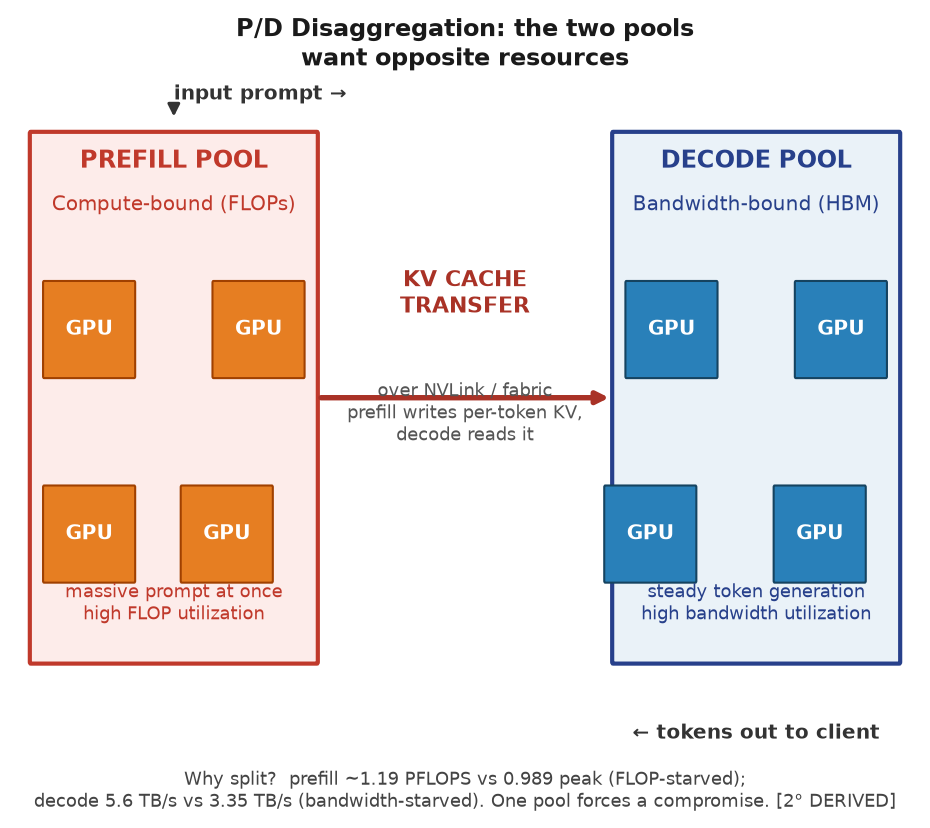
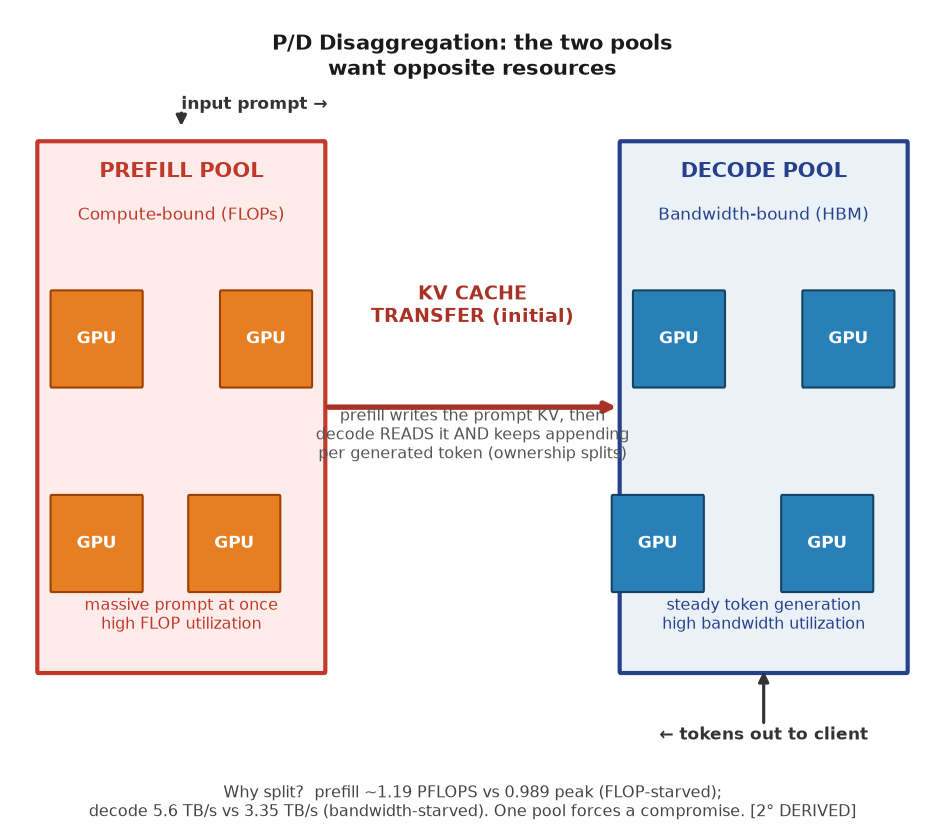
Fix Fig 11.3 P/D: show decode both reads AND appends per-token KV; anchor ingress/egress endpoints

Changed region(s): [[0.0312, 0.0, 0.9978, 0.8152], [0.0312, 0.9058, 0.9667, 0.9964], [0.686, 0.785, 0.9667, 0.9058]]

diff --git a/render/fig_ch11_pd.py b/render/fig_ch11_pd.py
@@ -34,13 +34,15 @@ ax.text(14.0, 1.9, 'steady token generation\nhigh bandwidth utilization', fontsi
 
 # ---- Bridge: KV cache transfer ----
 ax.annotate('', xy=(11.3, 4.5), xytext=(5.7, 4.5), arrowprops=dict(arrowstyle='-|>', lw=2.6, color='#a93226', connectionstyle='arc3,rad=0.0'))
-ax.text(8.5, 5.5, 'KV CACHE\nTRANSFER', fontsize=9, ha='center', color='#a93226', fontweight='bold')
-ax.text(8.5, 4.0, 'over NVLink / fabric\nprefill writes per-token KV,\ndecode reads it', fontsize=7.5, ha='center', color='#555')
+ax.text(8.5, 5.5, 'KV CACHE\nTRANSFER (initial)', fontsize=9, ha='center', color='#a93226', fontweight='bold')
+ax.text(8.5, 3.9, 'prefill writes the prompt KV, then\ndecode READS it AND keeps appending\nper generated token (ownership splits)',
+        fontsize=7.5, ha='center', color='#555')
 
-# ---- Incoming request / output outside pools ----
+# ---- Incoming request / output outside pools (anchor endpoints) ----
 ax.text(3.0, 8.0, 'input prompt →', fontsize=8, ha='left', color='#333', fontweight='bold')
 ax.annotate('', xy=(3.0, 7.75), xytext=(3.0, 8.0), arrowprops=dict(arrowstyle='-|>', lw=1.5, color='#333'))
-ax.text(14.0, 0.5, '← tokens out to client', fontsize=8, ha='center', color='#333', fontweight='bold')
+ax.text(14.0, 0.6, '← tokens out to client', fontsize=8, ha='center', color='#333', fontweight='bold')
+ax.annotate('', xy=(14.0, 1.45), xytext=(14.0, 0.75), arrowprops=dict(arrowstyle='-|>', lw=1.5, color='#333'))
 
 # ---- Why: resource conflict (wrapped so it doesn't clip at the column edge) ----
 ax.text(8.5, -0.3, 'Why split?  prefill ~1.19 PFLOPS vs 0.989 peak (FLOP-starved);\ndecode 5.6 TB/s vs 3.35 TB/s (bandwidth-starved). One pool forces a compromise. [2° DERIVED]',
